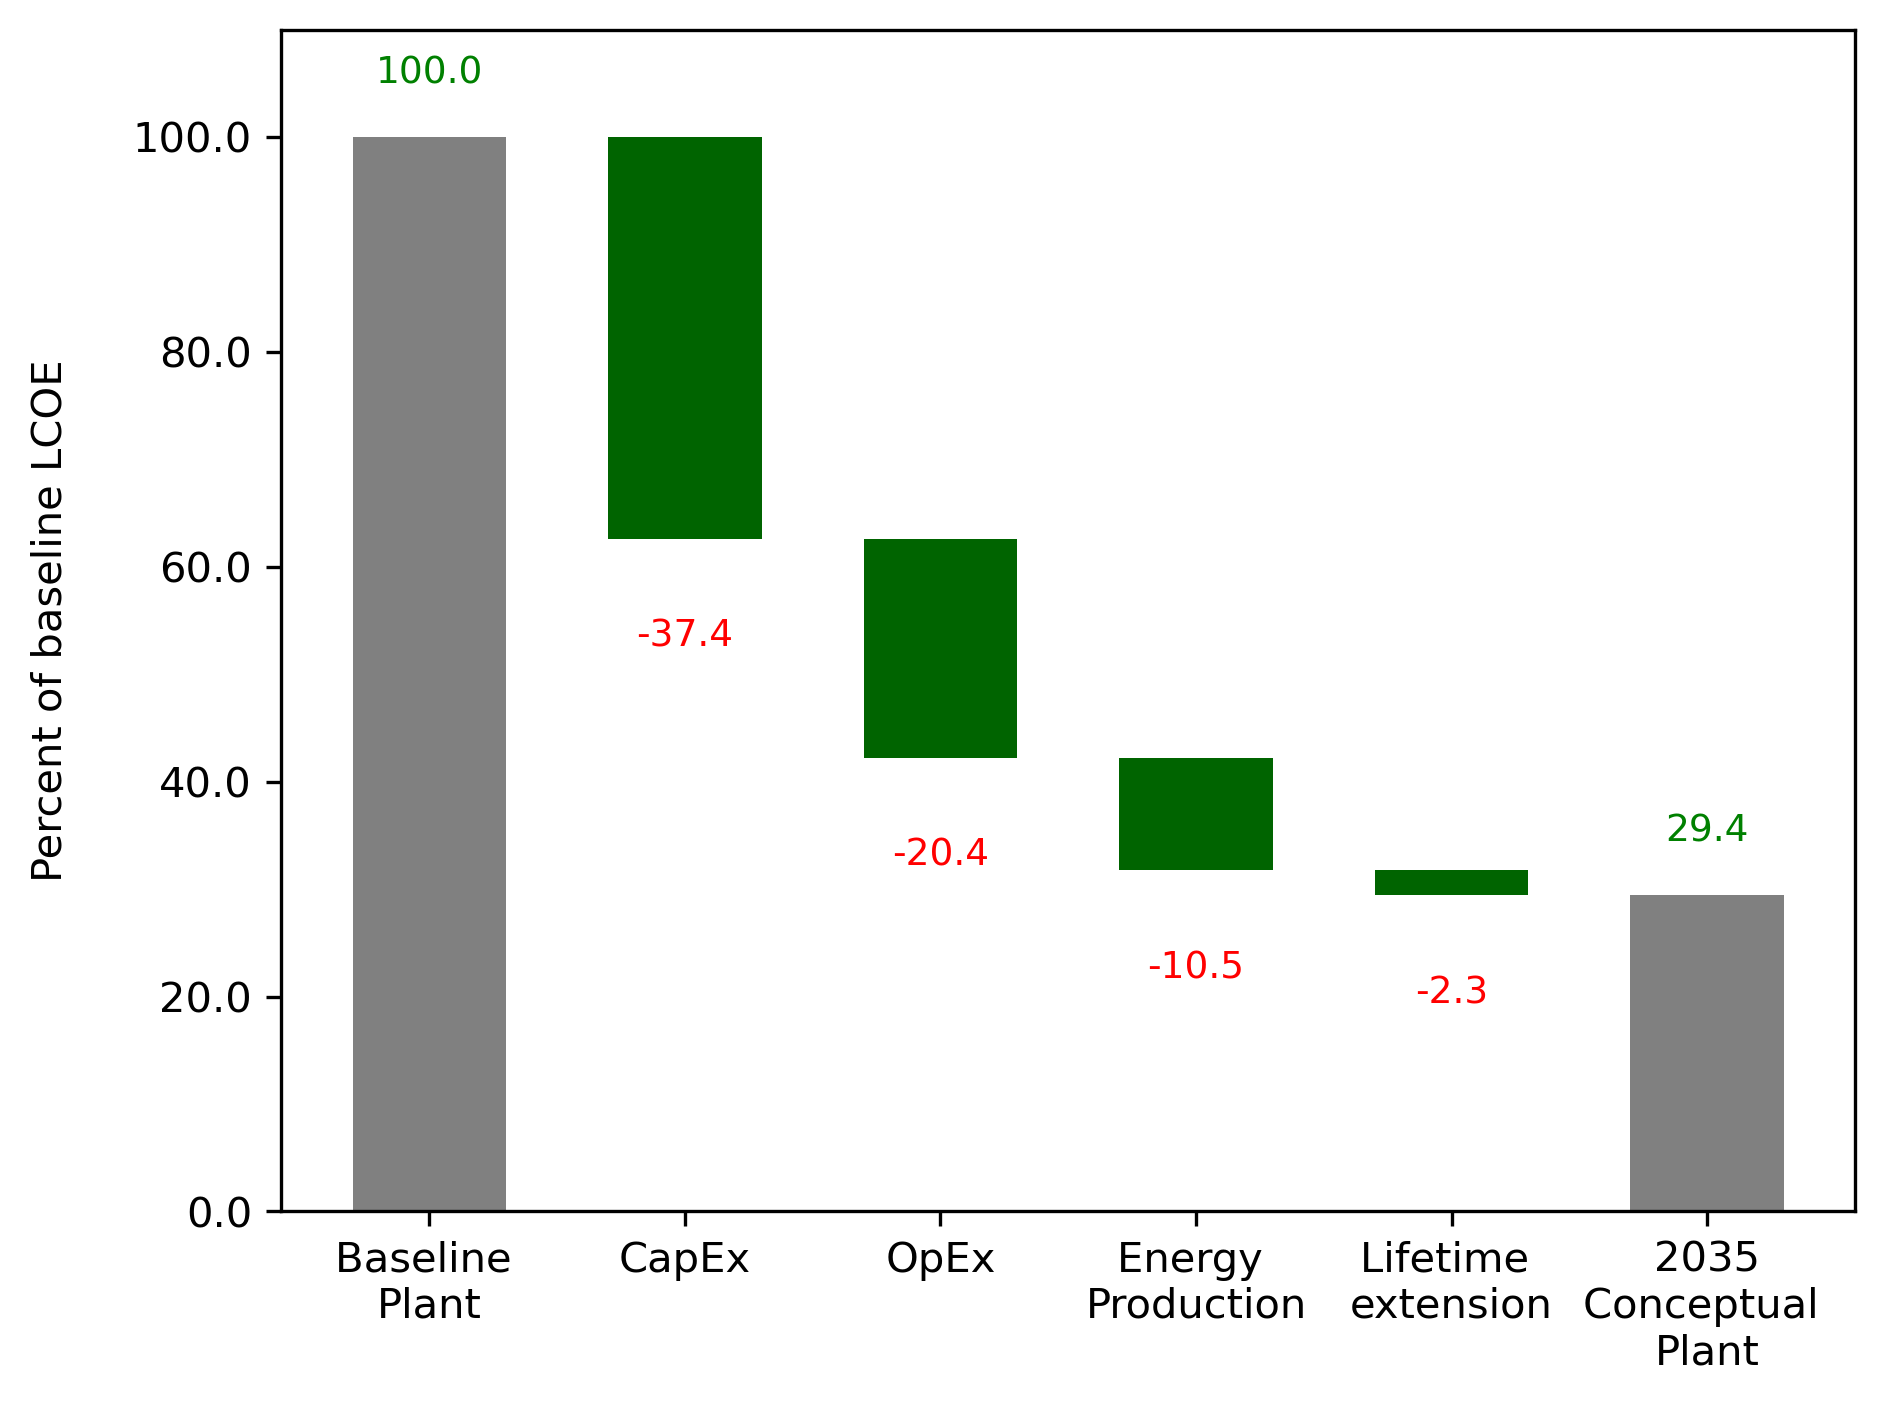
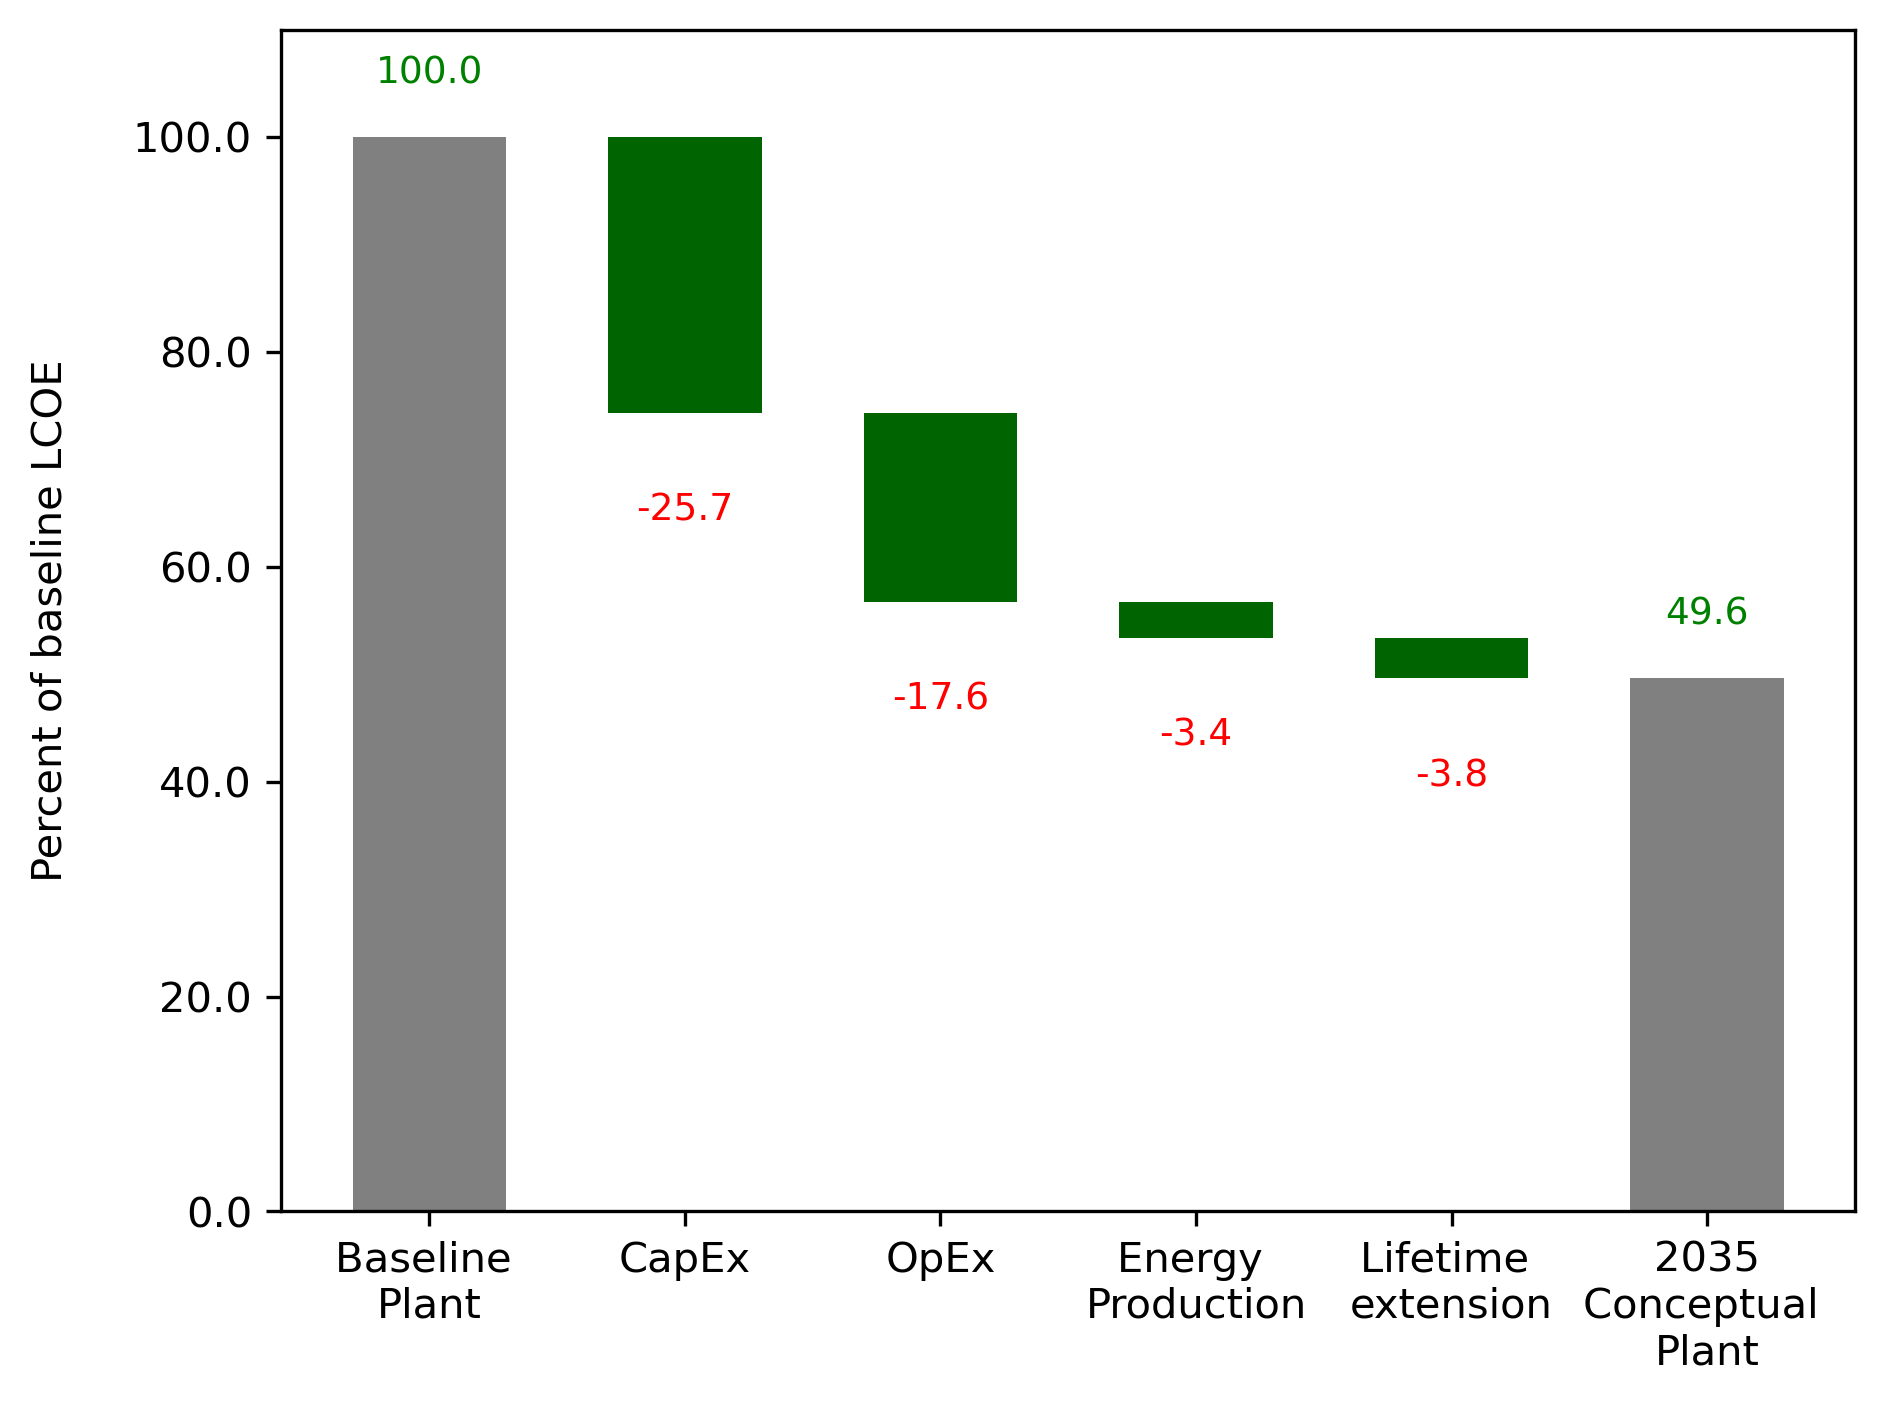
Updates to create BAU scenario for EArthshot

diff --git a/analysis/orbit_comparison.py b/analysis/orbit_comparison.py
@@ -38,7 +38,7 @@ plot_deployment(list(FORECAST_FIXED.keys()), list(FORECAST_FIXED.values()),
                 )
 
 ## Scaling factor for demonstration-scale floating capex
-FLOATING_DEMO_SCALE = 2.6     # Set initial Capex around $10K/kw
+FLOATING_DEMO_SCALE = 2.5368     # Set initial Capex around $10K/kw.  =2.6
 FLOATING_CAPACITY_2020 = 91   # Cumulative capacity as of previous year.  From OWMR.
 
 ## Regression Settings
@@ -399,8 +399,8 @@ def regression_and_plot(FORECAST, PROJECTS, FILTERS, TO_AGGREGATE, TO_DROP, PRED
     ### Write data
     pd.DataFrame({
         'Year': years,
-        'Capex': avg_capex,
-        'Min capex': min_capex_aggressive,
+        'Min capex': avg_capex,  # Select average trajectory for BAU scenario
+        # 'Min capex': min_capex_aggressive,
         'Capex percent reductions': 1 - avg_capex / avg_capex[0],
         'Opex': avg_opex,
         'AEP': aep_min_aep,

diff --git a/analysis/LCOE_waterfall.py b/analysis/LCOE_waterfall.py
@@ -10,7 +10,7 @@ import matplotlib.pyplot as plt
 if __name__ == '__main__':
     df = pd.read_csv('results/floating_data_out.csv')
 
-    year1 = 2023
+    year1 = 2024
     year2 = 2035
 
     def lcoe_calc(c, o, a, f):
@@ -63,8 +63,11 @@ if __name__ == '__main__':
     print('initial lcoe', lcoe_0, 'initial capex', capex)
     print('final capex',  dcapex)
     print('final lcoe', lcoe_dfcr)
+    print(lcoe_dcapex, lcoe_dopex, lcoe_daep, lcoe_dfcr)
 
     baseline_lcoe = df[(df['Year'] == year1)]['Min LCOE'].to_numpy()[0]
+    # print(baseline_lcoe)
+    baseline_lcoe = lcoe_0
     waterfall = [baseline_lcoe,
         -delta_lcoe['Capex'],
         -delta_lcoe['Opex'],
